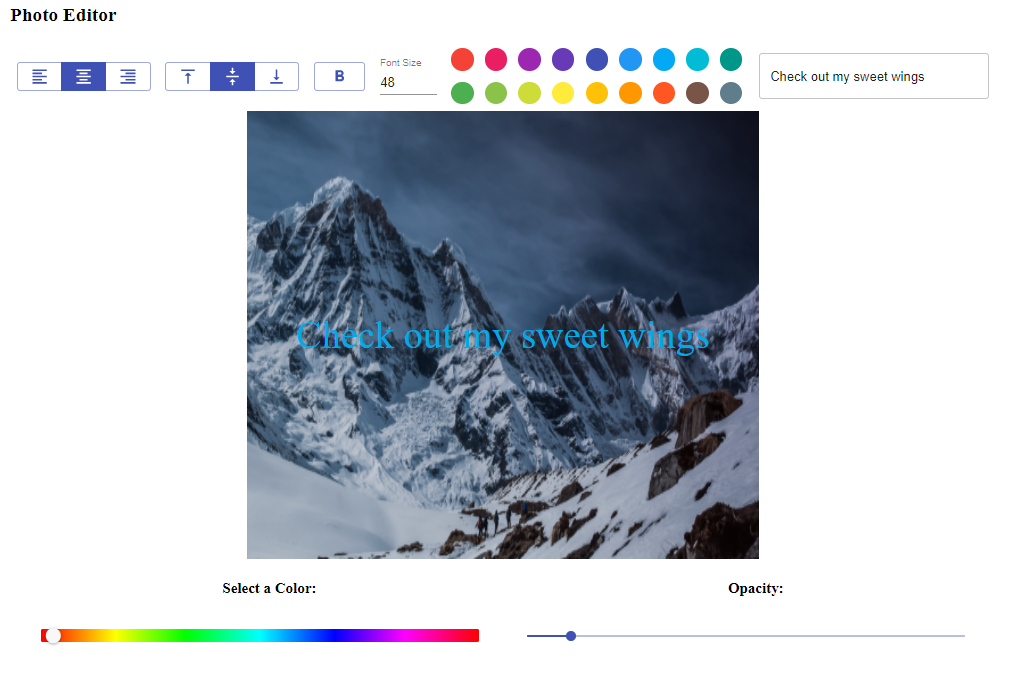
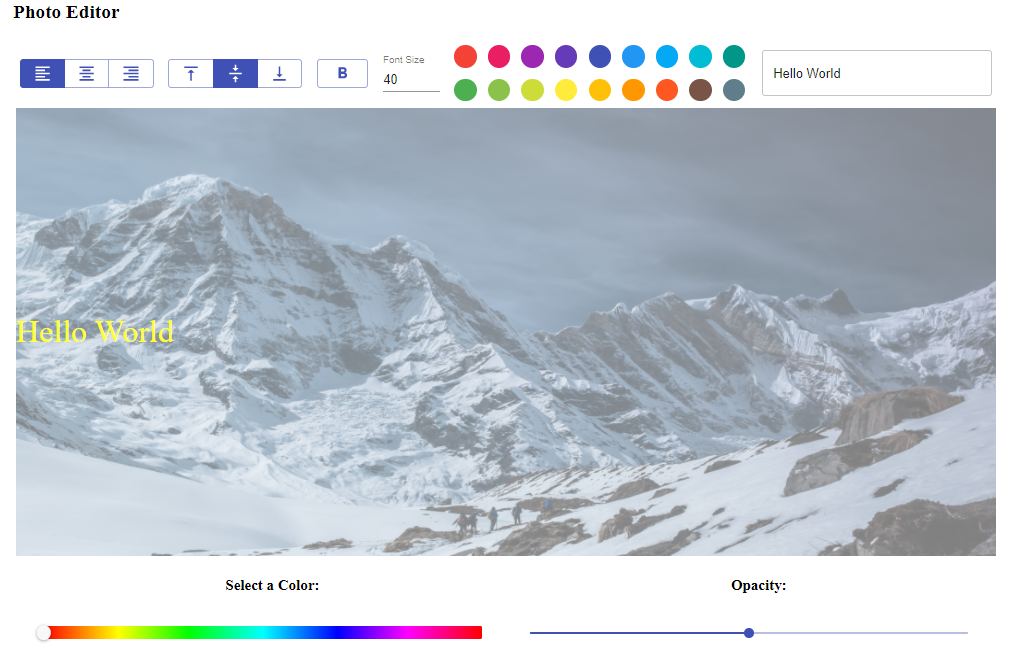
update readme

diff --git a/README.md b/README.md
@@ -51,9 +51,9 @@ The editor will load with the default options
 2. Passing some parameters
 
 ```
-URL: http://localhost:3000/?txt=Check%20out%20my%20sweet%20wings&txtclr=fff&txtalign=center%2Cmiddle&txtsize=48&bm=normal&balph=50
+URL: http://localhost:3000/?txt=Hello%20World&txtclr=FFFF33&txtalign=left%2Cmiddle&txtsize=40
 ```
-<img src="/src/assets/" alt="some" height="500">
+<img src="/src/assets/Some-parameters.png" alt="some" height="500">
 
 The editor will load with the selected parameters and will load the rest by default
 
